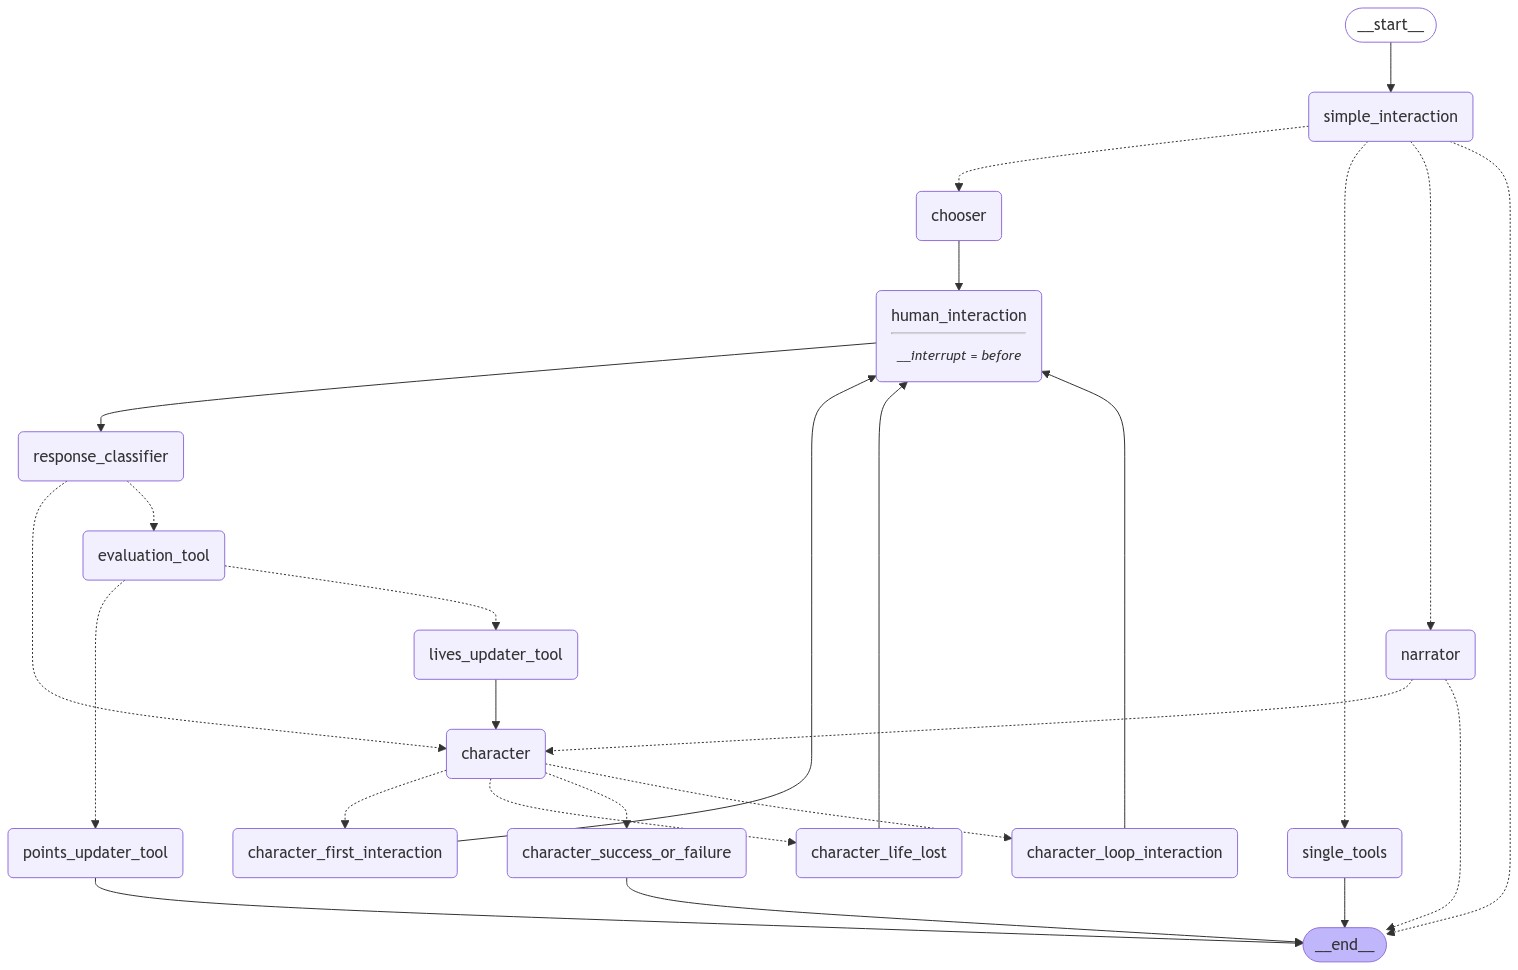
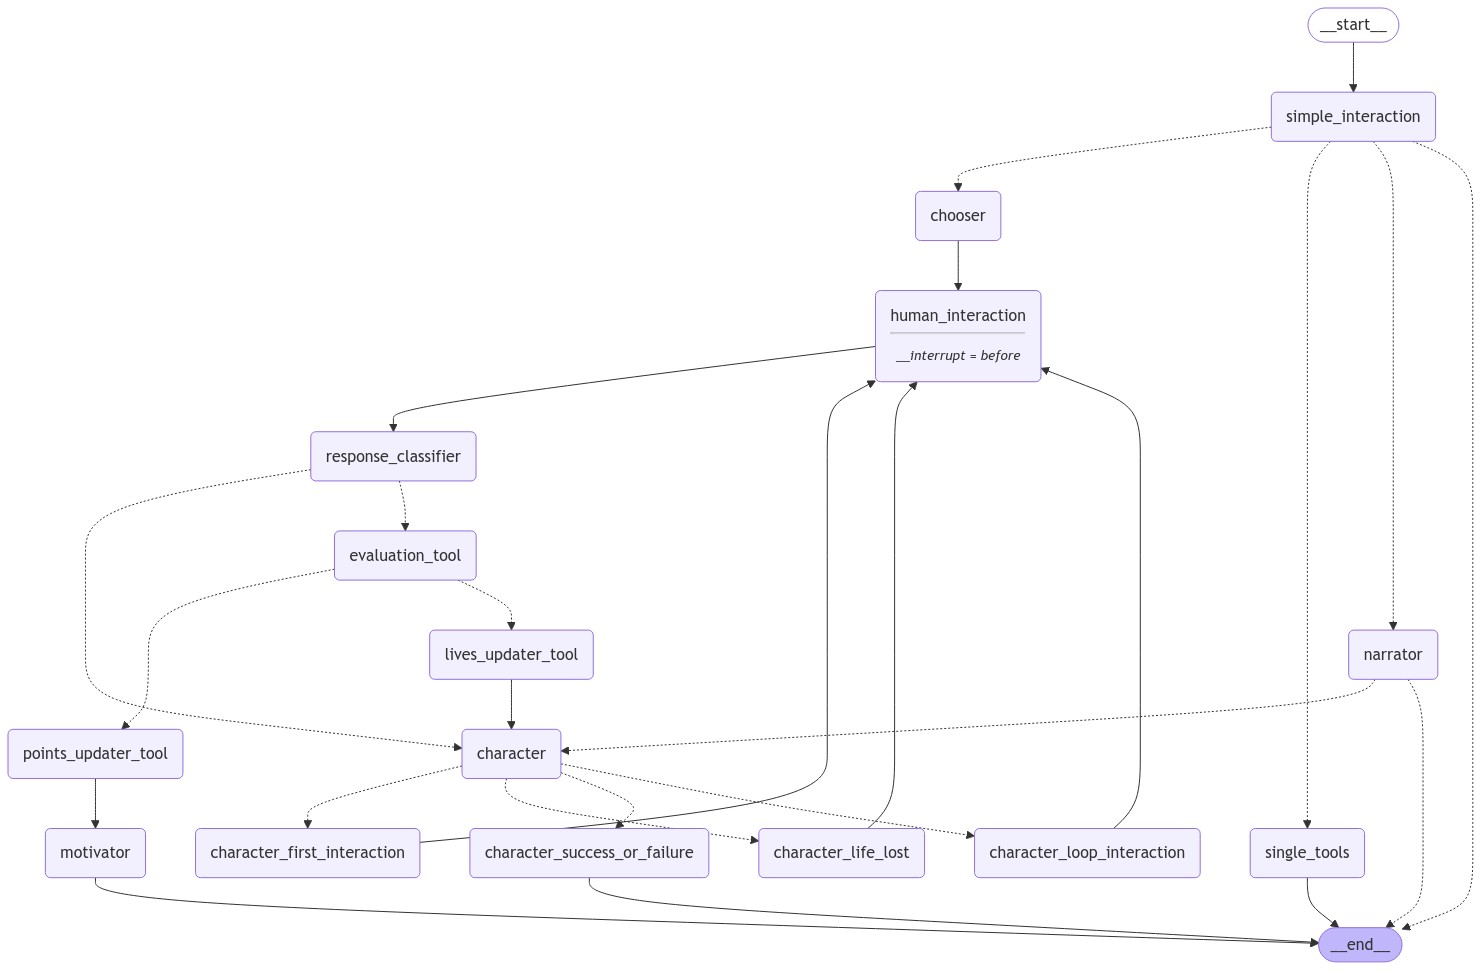
cambios: - acepta también respuestas que son la letra de la opción y no solo el texto siempre saca un mensaje de "vuelve a pedir una pregunta" - nuevo nodo motivador que, al momento de ganar un número de puntos múltiplo de 5, saca un mensaje de felicitaciones

diff --git a/app/agent/tools.py b/app/agent/tools.py
@@ -18,7 +18,8 @@ import app.database.sqlite_utils as sqlite_utils
 from app.prompts.tools_prompts import QANDA_PROMPT, EVALUATE_PROMPT, \
                                       INTERACTION_PROMPT, \
                                       POINTS_RETRIEVAL_PROMPT, \
-                                      FEEDBACK_PROMPT, RESPONSE_CLASSIFIER_PROMPT
+                                      FEEDBACK_PROMPT, RESPONSE_CLASSIFIER_PROMPT, \
+                                      MOTIVATION_PROMPT
 
 from dotenv import load_dotenv
 os.environ["OPENAI_API_KEY"] = config.OPENAI_API_KEY
@@ -102,7 +103,10 @@ def qanda_evaluation(input_data: str, game_type: str, db_id: str) -> str:
     if game_type == "simple_quiz":
         prompt += f'\nSi la respuesta es incorrecta, responde "La respuesta es incorrecta..." y \
                     agrega la respuesta correcta: "{right_answer}". Debe ser una frase completa, \
-                    no solo la respuesta.'
+                    no solo la respuesta. \
+                    Luego, si la respuesta es incorrecta, incluye un mensaje de ánimo para el usuario. \
+                    Si la respuesta es correcta, incluye un mensaje de felicitación. \
+                    En ambos casos, ¡incluye un mensaje que diga algo como "¿Quieres otra pregunta? ¡Pídemela!"!'
     
     response_text = model.invoke(prompt).content
     
@@ -211,7 +215,7 @@ def points_retrieval(user_id: str, db_id: str) -> str:
     response_text = model.invoke(prompt).content
     return response_text
 
-def points_only_retrieval(user_id: str, db_id: str) -> str:
+def points_only_retrieval(user_id: str, db_id: str) -> int:
     """
     Returns the current points count.
     """
@@ -231,6 +235,18 @@ def asked_questions_retrieval(user_id: str, db_id) -> int:
     Returns the current number of questions asked to the user.
     """
     return sqlite_utils.get_asked_questions(user_id, db_id)
+
+def motivator_tool(current_points: int, name: str) -> str:
+    model = ChatOpenAI(
+        model=MODEL_NAME,
+        temperature=1
+    )
+    print(f"NAME: {name} | {type(name)}")
+    prompt_template = ChatPromptTemplate.from_template(MOTIVATION_PROMPT)
+    prompt = prompt_template.format(name=name, points=current_points)
+    response_text = model.invoke(prompt).content
+    
+    return response_text    
 
 def narrator_tool(current_story: str, step: int, db_id: str) -> str:
     """

diff --git a/app/fastapi/main.py b/app/fastapi/main.py
@@ -69,10 +69,11 @@ story_game_tools = [
 
 user_graphs = {}
 
-def get_or_create_user_graph(thread_id: str, db_id: str):
+def get_or_create_user_graph(thread_id: str, db_id: str, user_name: str):
     global user_graphs
     print(f"THREAD_ID: {thread_id}")
     print(f"DB_ID: {db_id}")
+    print(f"USER_NAME: {user_name}")
     
     # Verifica si existe el grafo para el thread_id
     if thread_id not in user_graphs:
@@ -99,6 +100,7 @@ def get_or_create_user_graph(thread_id: str, db_id: str):
             "thread_id": thread_id,
             "db_chroma": db_id,
             "db_sqlite": db_id,
+            "user_name": user_name,
             "from_story": False,
             "messages": []
         }
@@ -116,6 +118,7 @@ class ChatInput(BaseModel):
     query: str
     thread_id: str = None
     db_id: Optional[str] = None
+    user_name: Optional[str] = None
     user_answer: Optional[str] = None  # Campo "opcional" para manejar la interrupción
 
 @app.post("/chat")
@@ -161,7 +164,7 @@ async def chat(input_data: ChatInput):
     )
     
     print(input_data)
-    graph = get_or_create_user_graph(input_data.thread_id, input_data.db_id)
+    graph = get_or_create_user_graph(input_data.thread_id, input_data.db_id, input_data.user_name)
     print(f"GRAPH: {input_data.thread_id} - {graph.get_state(thread).next}")
     print(f"INPUT DATA: {input_data}")
 

diff --git a/app/agent/nodes.py b/app/agent/nodes.py
@@ -125,6 +125,22 @@ def points_updater_tool_node(state):
                                                              # esta función no genera mensajes, solo
                                                              # actualiza los puntos del usuario.
 
+def motivator_node(state):
+    """
+    A node that motivates the user to continue playing if they have more than X points.
+    """
+    name = state["user_name"]
+    print(f"[MOTIVATOR_NODE] name: {name}")
+    last_message = state["messages"][-1]
+    
+    current_points = tools.points_only_retrieval(state["thread_id"], state["db_sqlite"])
+    
+    if current_points % 5 == 0 and 'incorrecta' not in last_message.content.lower():
+        result = tools.motivator_tool(current_points, name)
+        return {"messages": [f"{last_message.content}\n\n{result}"], "from_story": False}
+        
+    return {"messages": [last_message], "from_story": False}
+
 def narrator_node(state):
     """
     Narrates the goblin story.

diff --git a/app/agent/graph.py b/app/agent/graph.py
@@ -107,6 +107,7 @@ workflow.add_node("human_interaction", nodes.human_interaction)
 workflow.add_node("response_classifier", nodes.response_classifier_node)
 workflow.add_node("evaluation_tool", nodes.evaluation_tool_node)
 workflow.add_node("points_updater_tool", nodes.points_updater_tool_node)
+workflow.add_node("motivator", nodes.motivator_node)
 
 workflow.add_node("narrator", nodes.narrator_node)
 workflow.add_node("character", nodes.character_node)
@@ -156,7 +157,8 @@ workflow.add_edge("single_tools", END)
 workflow.add_edge("chooser", "human_interaction")
 # workflow.add_edge("human_interaction", "evaluation_tool")
 workflow.add_edge("human_interaction", "response_classifier")
-workflow.add_edge("points_updater_tool", END)
+workflow.add_edge("points_updater_tool", "motivator")
+workflow.add_edge("motivator", END)
 
 # workflow.add_edge("narrator", "character")
 # workflow.add_edge("first_character", "human_interaction")

diff --git a/app/prompts/tools_prompts.py b/app/prompts/tools_prompts.py
@@ -141,3 +141,24 @@ no es una posible respuesta.
 
 Responde "True" si sí es una posible respuesta a la pregunta.
 """
+
+
+MOTIVATION_PROMPT = """
+Eres un modelo que motiva a un usuario a seguir adelante.
+
+¡Es importante que motives al usuario a seguir aprendiendo!
+
+El usuario se llama: {name}
+
+¡No lo tienes que saludar! Solo incluye su nombre en la respuesta.
+
+Logró llegar a {points} puntos. ¡Felicítalo!
+
+Es muy importante que le animes a seguir adelante y a seguir aprendiendo.
+
+Si {points} es cinco (5), significa que fueron sus primeros cinco puntos.
+Si {points} es diez (10), significa que es la segunda vez que consigue cinco puntos.
+Si {points} es cincuenta (50), significa que es la décima vez que consigue puntos.
+
+Ten eso en cuenta!!
+"""

diff --git a/app/agent/utils.py b/app/agent/utils.py
@@ -161,7 +161,7 @@ def define_context_string(context: list, game_type: str):
         else:
             answer_string = answer_choice
         
-        final_evaluation_string = f"PREGUNTA: {context['question']} | RESPUESTA CORRECTA: {answer_string.lower()}"
+        final_evaluation_string = f"PREGUNTA: {context['question']}\n Hay dos respuestas correctas que debes aceptar: \n- La frase/palabra: '{answer_string.lower()}'\n- La letra: '{answer_choice}' en mayúsculas o minúsculas"
     elif game_type == "story":
         answer_list = [context["choices"][choice] for choice in context["choices"]]
         for each_answer in answer_list:

diff --git a/app/prompts/qandas_prompts.py b/app/prompts/qandas_prompts.py
@@ -204,6 +204,10 @@ d.) Posible respuesta 4 \
 
 ---------------------------------------------------------------------------------
 Haz que las respuestas sean muy variadas entre sí y entre cada pregunta. \
+    
+Haz que no todas las respuestas correctas sean la opción "a" o la primera opción, \
+sino que varíen entre las cuatro (4) opciones. Haz que la respuesta correcta se distribuya \
+aleatoriamente entre las cuatro (4) opciones.
 
 ---------------------------------------------------------------------------------
 Nunca generes más de cuatro (4) posibles respuestas.

diff --git a/app/agent/state.py b/app/agent/state.py
@@ -21,3 +21,4 @@ class State(TypedDict):
     from_story: Optional[bool]
     db_chroma: Optional[str]
     db_sqlite: Optional[str]
+    user_name: Optional[str]
